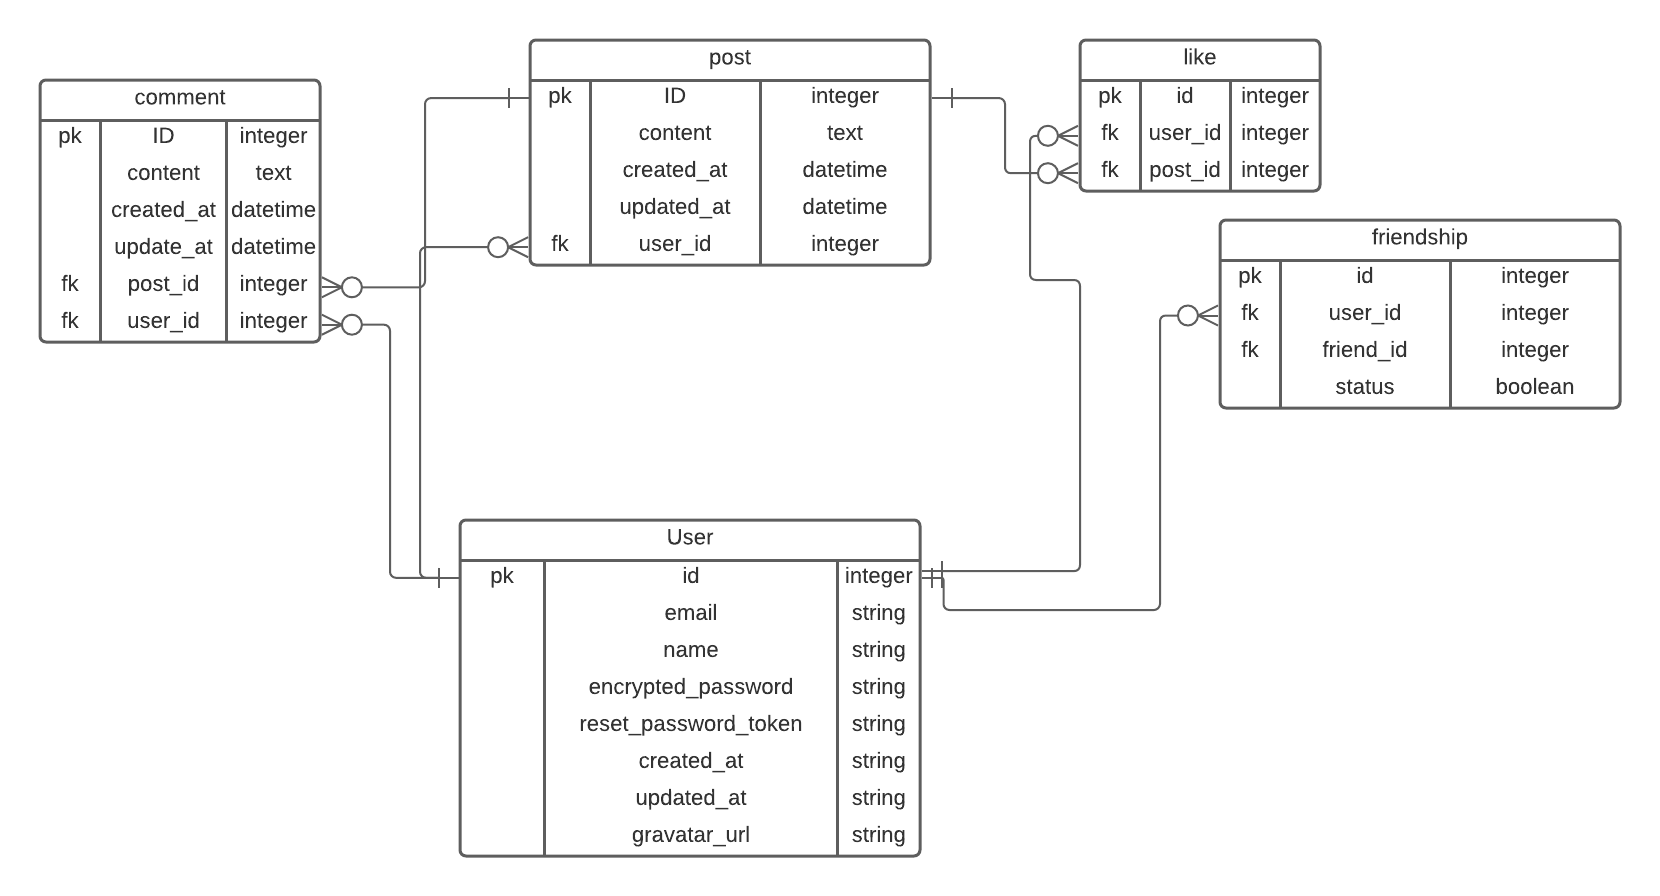
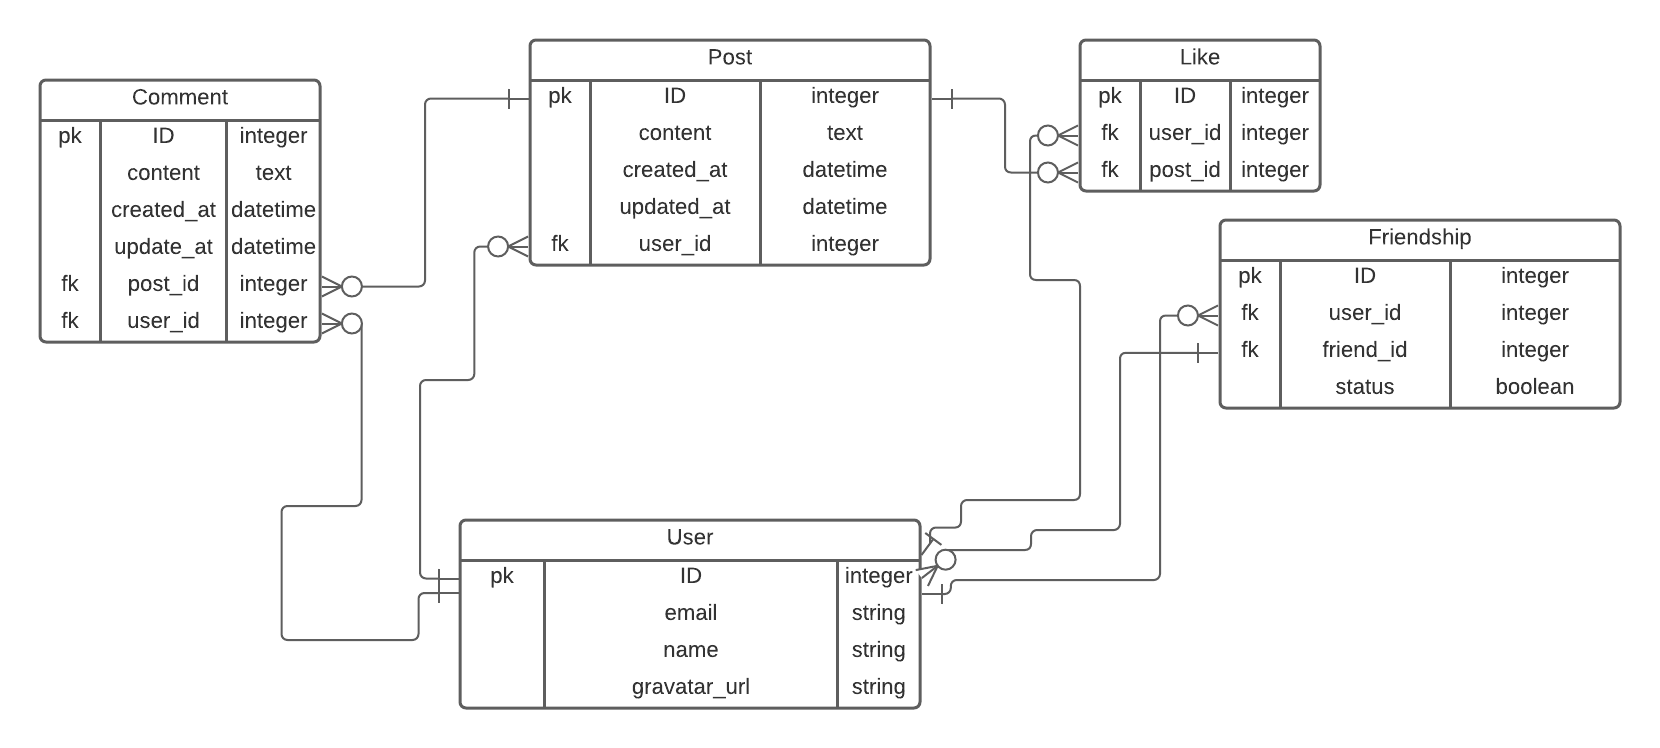
Reorganize arrows to make the ERD clear and add a new link friendship-user

diff --git a/db/migrate/20210415233034_create_friendships.rb b/db/migrate/20210415233034_create_friendships.rb
@@ -1,0 +1,11 @@
+class CreateFriendships < ActiveRecord::Migration[5.2]
+  def change
+    create_table :friendships do |t|
+      t.references :user, foreign_key: true
+      t.references :friend, foreign_key: true
+      t.boolean :status
+
+      t.timestamps
+    end
+  end
+end

diff --git a/app/models/friendship.rb b/app/models/friendship.rb
@@ -1,0 +1,4 @@
+class Friendship < ApplicationRecord
+  belongs_to :user
+  belongs_to :friend
+end
